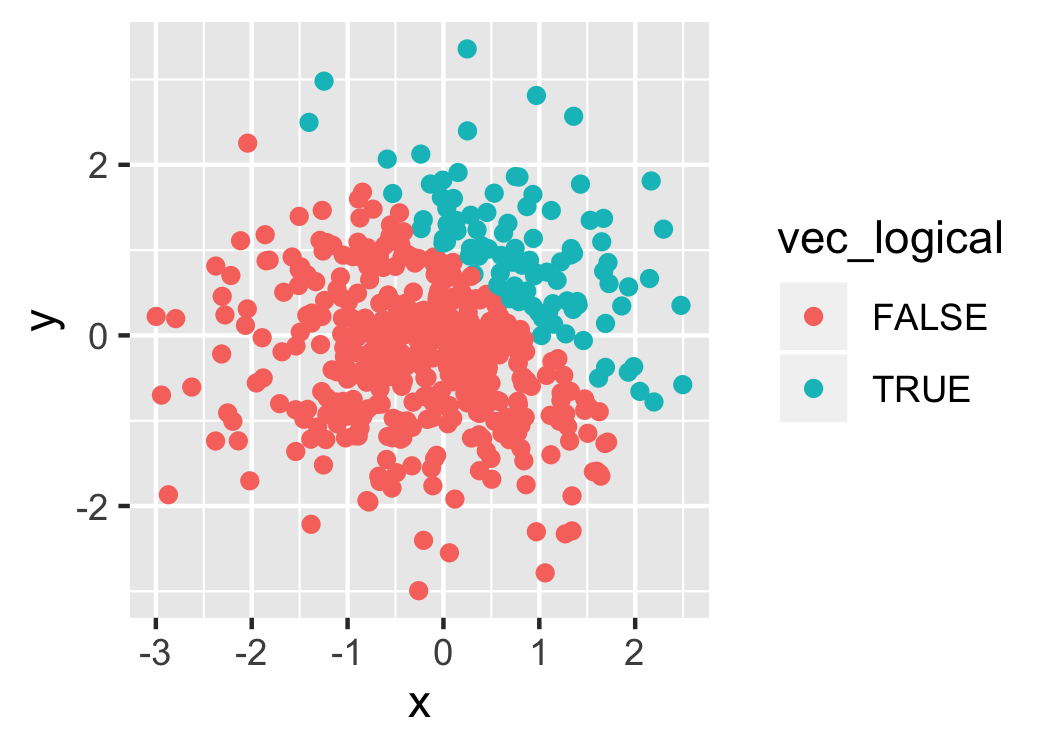
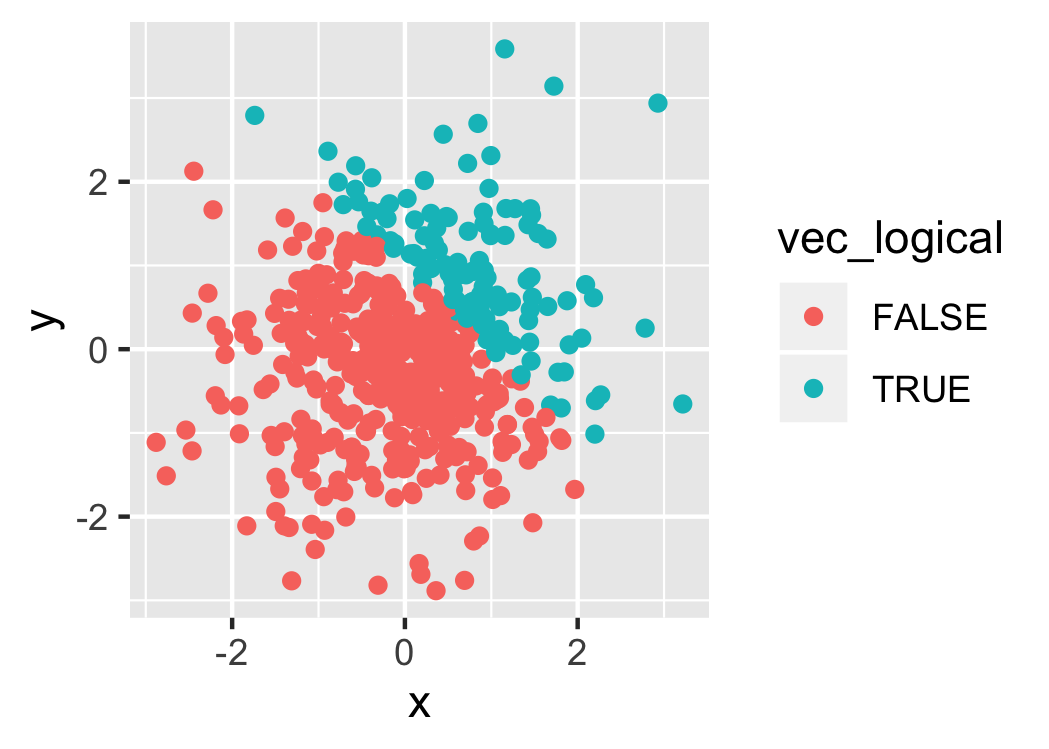
Revise the charactor vector and factor vector for problem 1.

diff --git a/p8105_hw1_xh2395.md b/p8105_hw1_xh2395.md
@@ -27,8 +27,8 @@ library(tidyverse)
 problem1_df = tibble(
   vec_numeric = rnorm(8, mean = 0, sd = 1),
   vec_logical = vec_numeric > 0,
-  vec_char = character(length = 8),
-  vec_factor = factor(vec_char, levels = c("a", "b", "c"))
+  vec_char = c("apple", "orange", "grape", "melon", "pear", "peach", "banana", "berry"),
+  vec_factor = factor(c("like", "dislike", "neutral", "like", "dislike", "neutral", "dislike", "like"))
 )
 ```
 
@@ -39,13 +39,13 @@ problem1_df = tibble(
 mean(pull(problem1_df, vec_numeric))
 ```
 
-    ## [1] 0.04744473
+    ## [1] 0.04445209
 
 ``` r
 mean(pull(problem1_df, vec_logical))
 ```
 
-    ## [1] 0.25
+    ## [1] 0.5
 
 ``` r
 mean(pull(problem1_df, vec_char))
@@ -74,11 +74,13 @@ vec\_char and vec\_factor doesn’t work.
 as.numeric(pull(problem1_df, vec_logical))
 ```
 
-    ## [1] 1 0 0 0 1 0 0 0
+    ## [1] 0 0 1 1 0 1 0 1
 
 ``` r
 as.numeric(pull(problem1_df, vec_char))
 ```
+
+    ## Warning: NAs introduced by coercion
 
     ## [1] NA NA NA NA NA NA NA NA
 
@@ -86,13 +88,13 @@ as.numeric(pull(problem1_df, vec_char))
 as.numeric(pull(problem1_df, vec_factor))
 ```
 
-    ## [1] NA NA NA NA NA NA NA NA
+    ## [1] 2 1 3 2 1 3 1 2
 
 After convert the logical, character, and factor variables to numeric
-variables, the logical variable shows as 0 or 1, the character variable
-shows as NA, the factor variable also shows as NA. This helps explain
-why the mean of vec\_numeric and vec\_logical works but the mean of
-vec\_char and vec\_factor doesn’t work.
+variables, the logical variable shows as 0 or 1; the character variable
+shows as NA; the factor variable shows as 1,2,3(three levels). This
+helps explain why the mean of vec\_numeric and vec\_logical works but
+the mean of vec\_char and vec\_factor doesn’t work.
 
 **Convert and
 multiply:**
@@ -101,7 +103,8 @@ multiply:**
 as.numeric(pull(problem1_df, vec_logical))*pull(problem1_df, vec_numeric)
 ```
 
-    ## [1] 0.655339 0.000000 0.000000 0.000000 1.918601 0.000000 0.000000 0.000000
+    ## [1] 0.00000000 0.00000000 0.08892911 0.28255267 0.00000000 1.69713055
+    ## [7] 0.00000000 1.12264082
 
 ``` r
 as.factor(pull(problem1_df, vec_logical))*pull(problem1_df, vec_numeric)
@@ -116,8 +119,8 @@ as.factor(pull(problem1_df, vec_logical))*pull(problem1_df, vec_numeric)
 as.numeric(as.factor(pull(problem1_df, vec_logical)))*pull(problem1_df, vec_numeric)
 ```
 
-    ## [1]  1.31067791 -0.68629050 -0.40880453 -0.71360122  3.83720169 -0.18830719
-    ## [7] -0.13742363 -0.05995486
+    ## [1] -0.4973212 -0.5372700  0.1778582  0.5651053 -1.3089238  3.3942611
+    ## [7] -0.4921214  2.2452816
 
 ## problem 2
 
@@ -135,13 +138,13 @@ problem2_df = tibble(
 
 The size of the dataset is 500 and 5.
 
-The mean of x is -0.0427131.
+The mean of x is 0.0015238.
 
-The median of x is0.0131475.
+The median of x is0.0116991.
 
-The standard deviation of x is 0.989969.
+The standard deviation of x is 0.9708464.
 
-The proportion of cases for which x + y \> 1 is 0.2.
+The proportion of cases for which x + y \> 1 is 0.232.
 
 **Make a scatterplot of y vs x (color points using the logical
 variable):**
